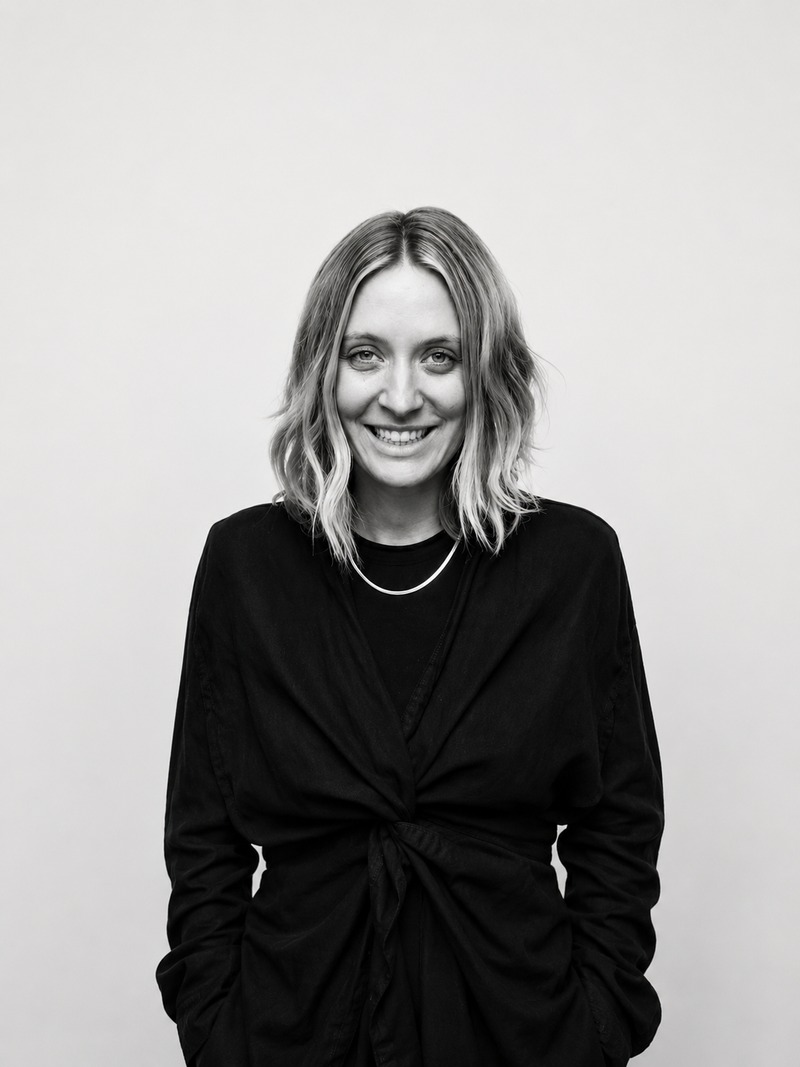
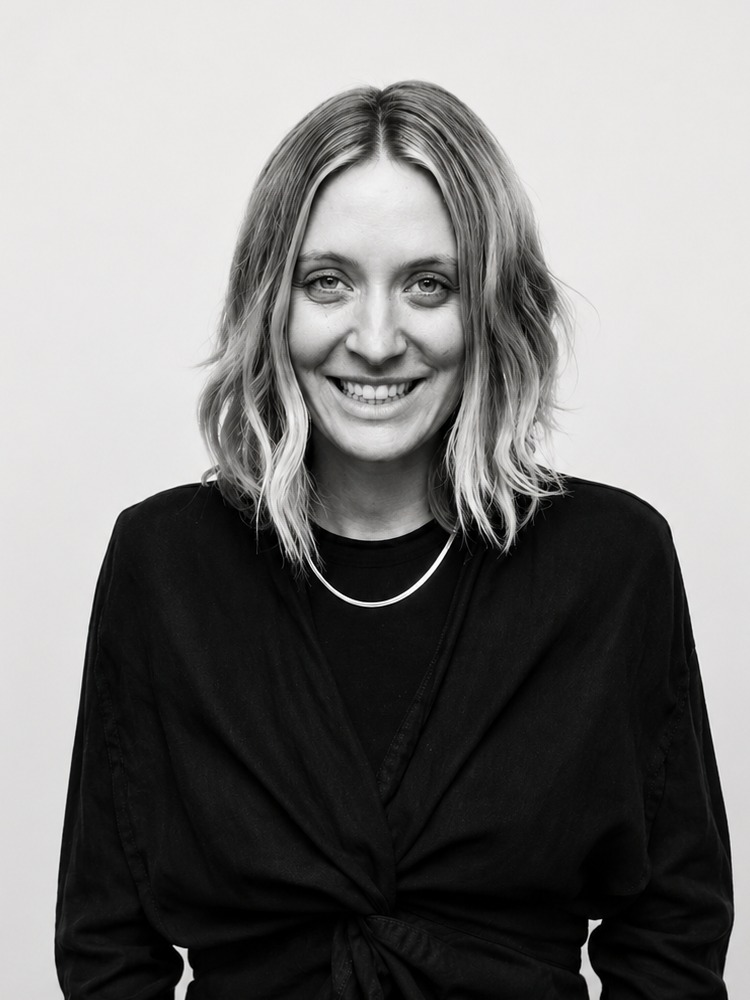
Praxis-Block: Hintergründe für Eva und Felicitas + Feli-Foto enger
- Eva Stölzel Hintergrund: Arabistik & Pädagogik
- Felicitas Niere Hintergrund: OMR · Leading Customer Support
- Felicitas-Foto neu zugeschnitten (750x1000 statt 800x1067) –
  weniger Luft oben, Gesicht dominanter

diff --git a/ueber-uns-team.html b/ueber-uns-team.html
@@ -224,7 +224,7 @@
           <p class="subhead-small" style="color: var(--purple-main);">Eva Stölzel</p>
           <p class="copy-small copy-muted" style="margin-top: 4px;">Schulungen &amp; Workshop-Formate</p>
           <span class="team-bg-label">Hintergrund</span>
-          <p class="team-bg">[Hintergrund – Platzhalter]</p>
+          <p class="team-bg">Arabistik &amp; Pädagogik</p>
         </div>
       </div>
 
@@ -236,7 +236,7 @@
           <p class="subhead-small" style="color: var(--purple-main);">Felicitas Niere</p>
           <p class="copy-small copy-muted" style="margin-top: 4px;">Awareness-Konzeption, Schulungen &amp; Workshops</p>
           <span class="team-bg-label">Hintergrund</span>
-          <p class="team-bg">[Hintergrund – Platzhalter]</p>
+          <p class="team-bg">OMR · Leading Customer Support</p>
         </div>
       </div>
 